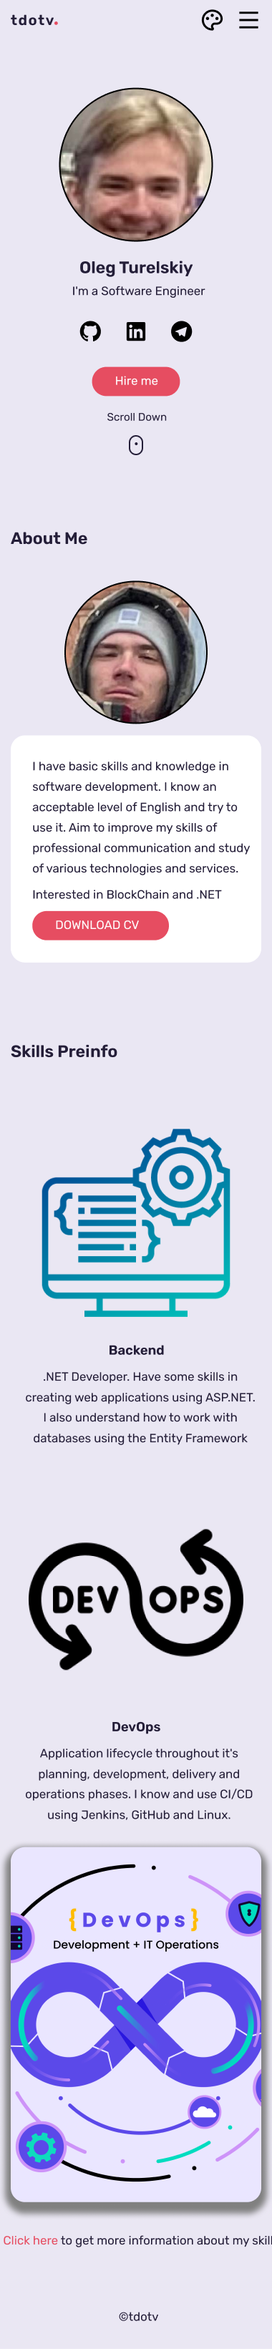
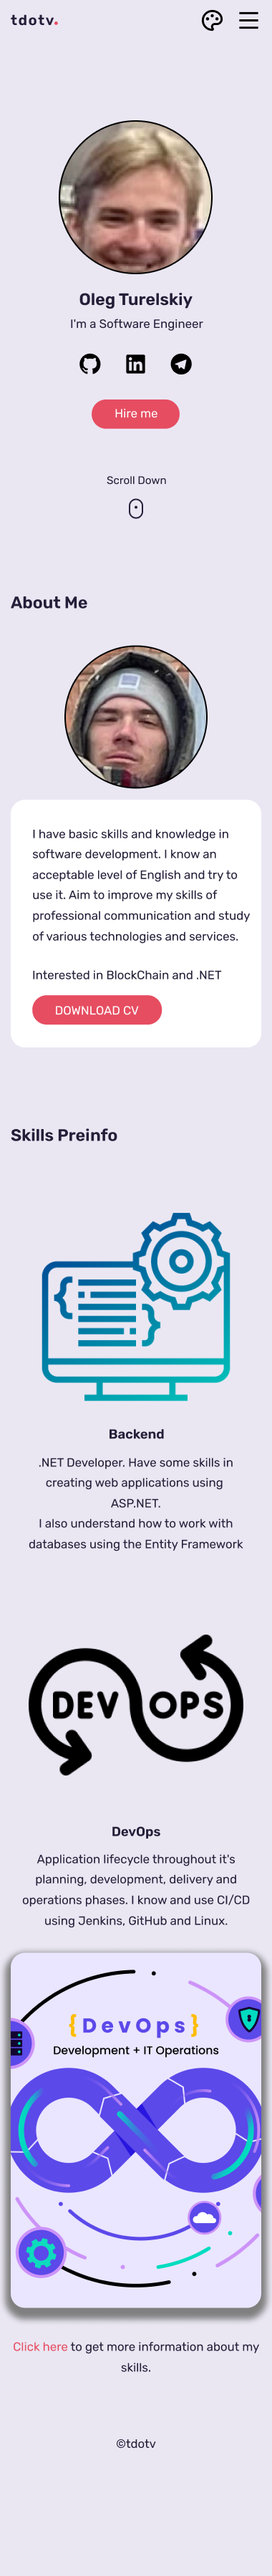
light fixes commit with new images

diff --git a/assets/css/style.css b/assets/css/style.css
@@ -278,7 +278,6 @@ input {
   font-weight: var(--font-semi-bold);
   letter-spacing: 0.1rem;
   position: relative;
-  /* HOW TO UNDERSTAND POSITION */
 }
 
 .nav-logo::after {
@@ -364,14 +363,6 @@ input {
   max-width: 540px;
   text-align: center;
 }
-
-/* .image-wrapper {
-  flex: 1;
-}
-
-.content-wrapper {
-  flex: 2;
-} */
 
 .home .intro img {  
   margin-bottom: var(--m-1);
@@ -586,7 +577,7 @@ input {
 	max-width:700px
 }
 
-#proparallax {
+.proparallax {
 	display: block;
 	position: relative;
 	overflow: hidden;
@@ -596,7 +587,7 @@ input {
 	box-shadow: 0px 8px 10px 8px grey;
 }
 
-#proparallax img {
+.proparallax img {
 	position: absolute;
 	width: 50rem;
 	height: 31rem;
@@ -724,21 +715,21 @@ input {
 	}
 }
 
-#proparallax img.one{
+.proparallax img.one{
 	animation-name: parallax_one;
 	animation-timing-function: linear;
 	animation-iteration-count: infinite;
 	animation-duration: 15s;
 }
 
-#proparallax img.two {
+.proparallax img.two {
 	animation-name: parallax_two;
 	animation-timing-function: linear;
 	animation-iteration-count: infinite;
 	animation-duration: 15s;
 }
 
-#proparallax img.three {
+.proparallax img.three {
 	animation-name: parallax_three;
 	animation-timing-function: linear;
 	animation-iteration-count: infinite;
@@ -782,7 +773,6 @@ input {
 }
 
 .resume-item::before {
-  /* line height sets up height for text and that's why circles are higher */
   content: "";
   width: 10px;
   height: 10px;

diff --git a/index.html b/index.html
@@ -135,9 +135,10 @@
             </div>
           </div>
         </div>
+
         <!-- carousel -->
         <div class="carousel">
-          <div id="proparallax">
+          <div class="proparallax">
             <img class="one" src="/PortfolioWeb/assets/image/carousel1.jpg" alt="carousel_first_img">
             <img class="two" src="/PortfolioWeb/assets/image/carousel2.jpeg" alt="carousel_second_img">
             <img class="three" src="/PortfolioWeb/assets/image/carousel3.jpg" alt="carousel_third_img">
